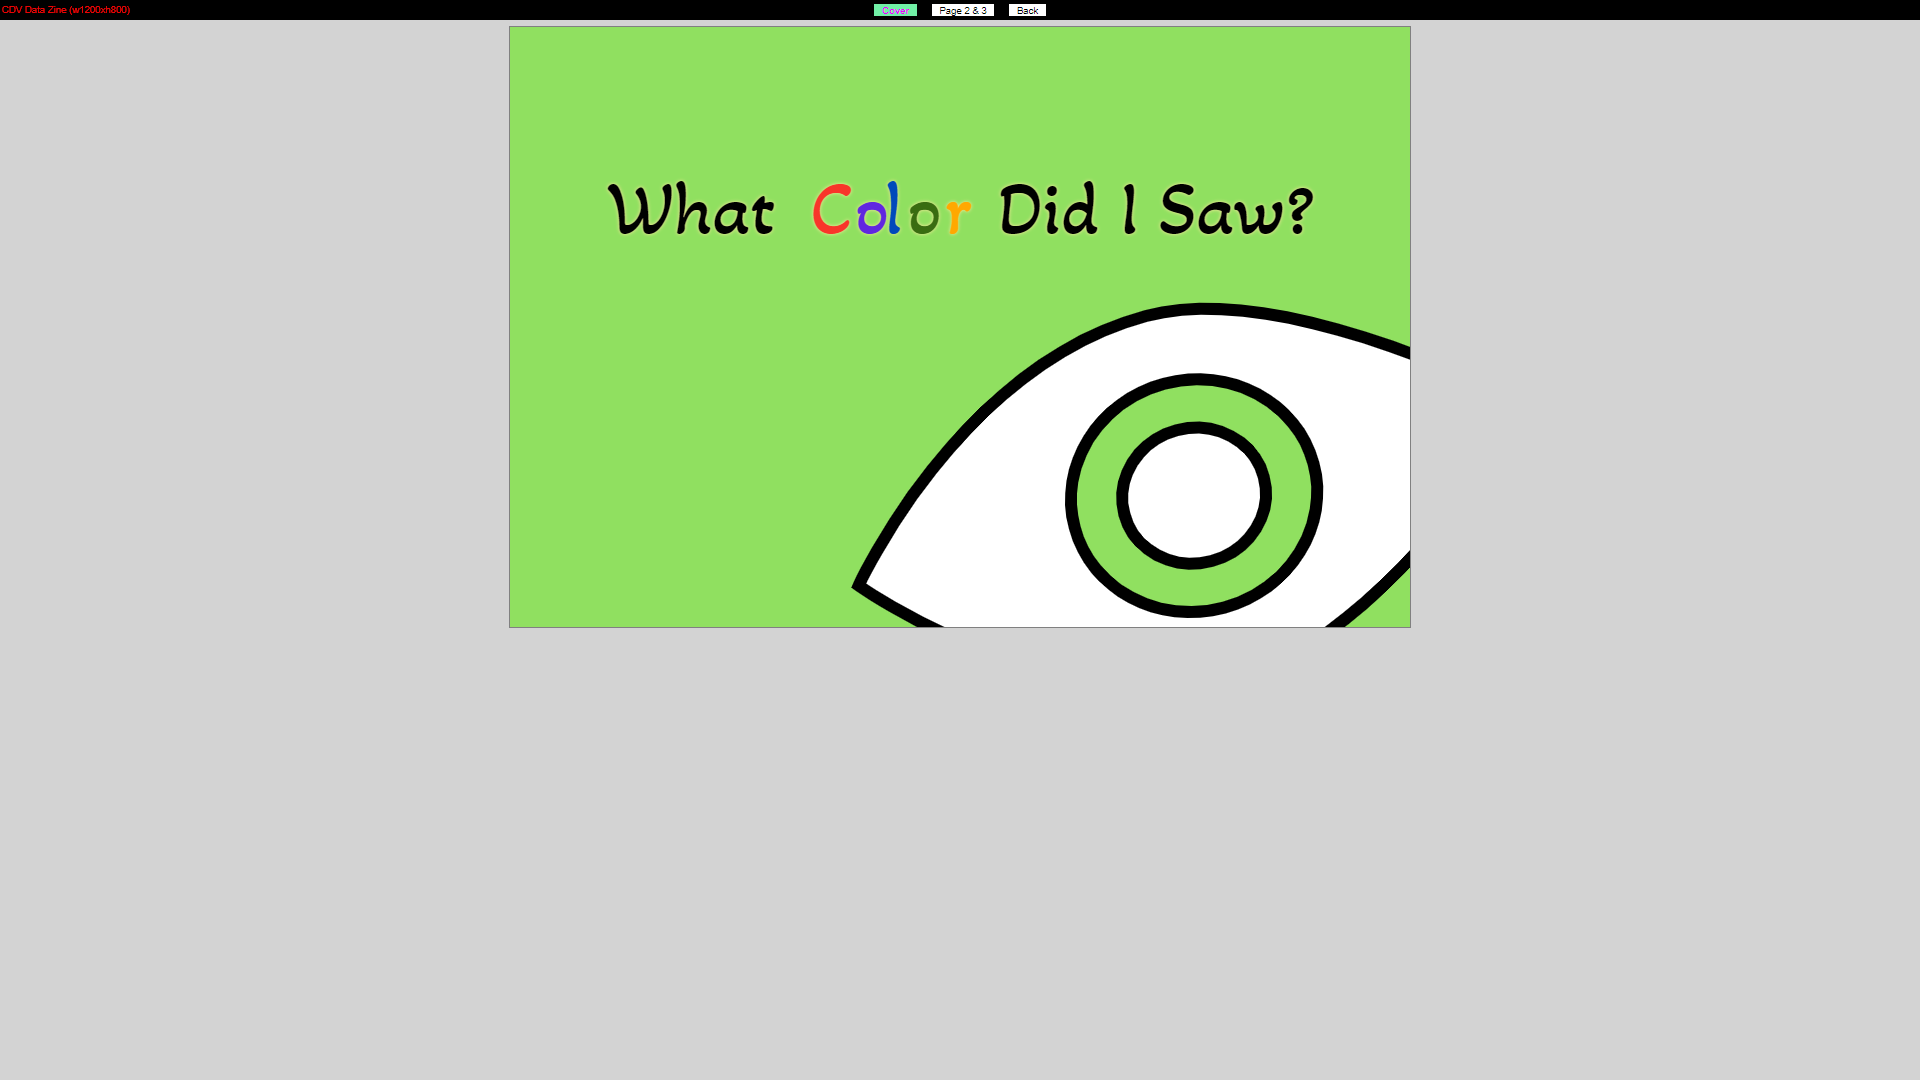
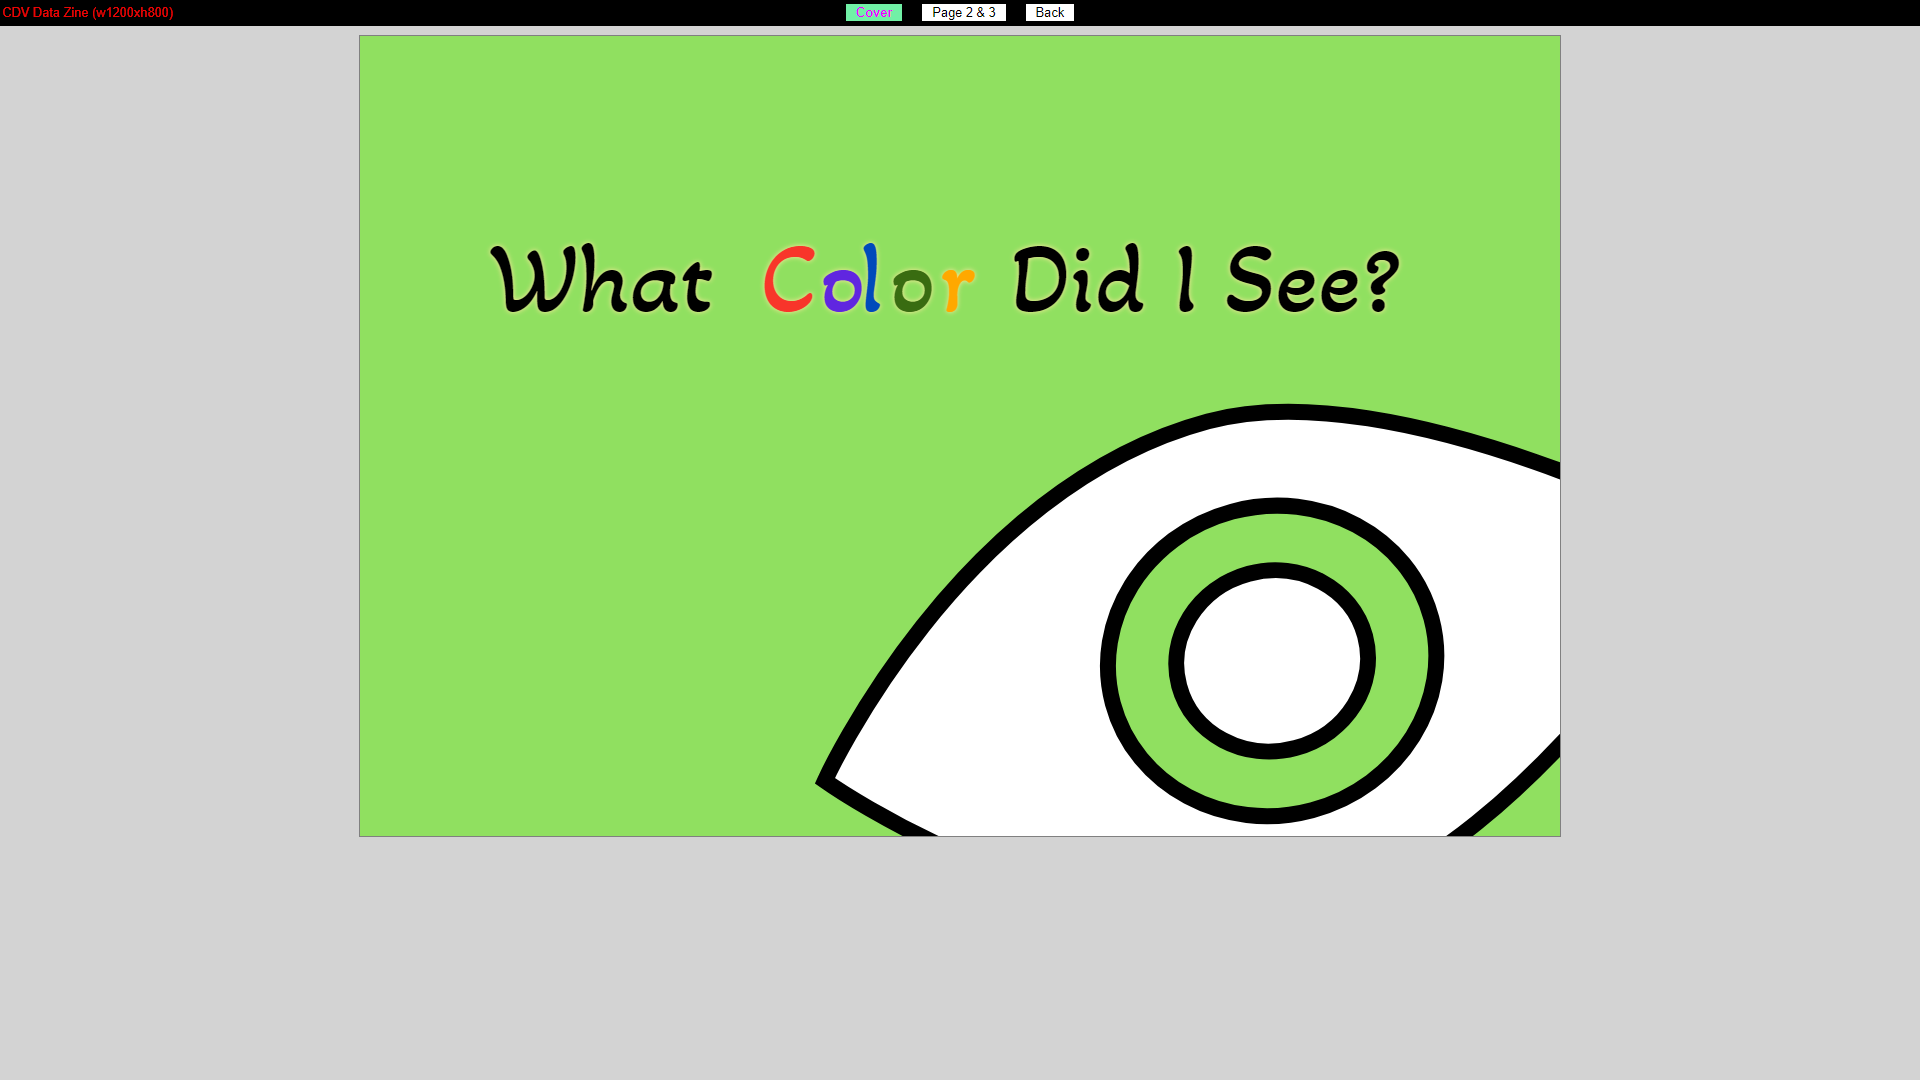
:bug: fixed typos

Changed region(s): [[0.0, 0.0, 1.0, 0.7944]]

diff --git a/projects/datazine/cover.js b/projects/datazine/cover.js
@@ -51,7 +51,7 @@ svg.append('text')
     .style('text-shadow', '0 0 5px ' + '#ffe89d');
 
 svg.append('text')
-    .text('Did I Saw?')
+    .text('Did I See?')
     .style('transform', 'translate(650px, 275px)')
     .style('font-family', '\'Akaya Kanadaka\', cursive')
     .style('font-size', 100)
